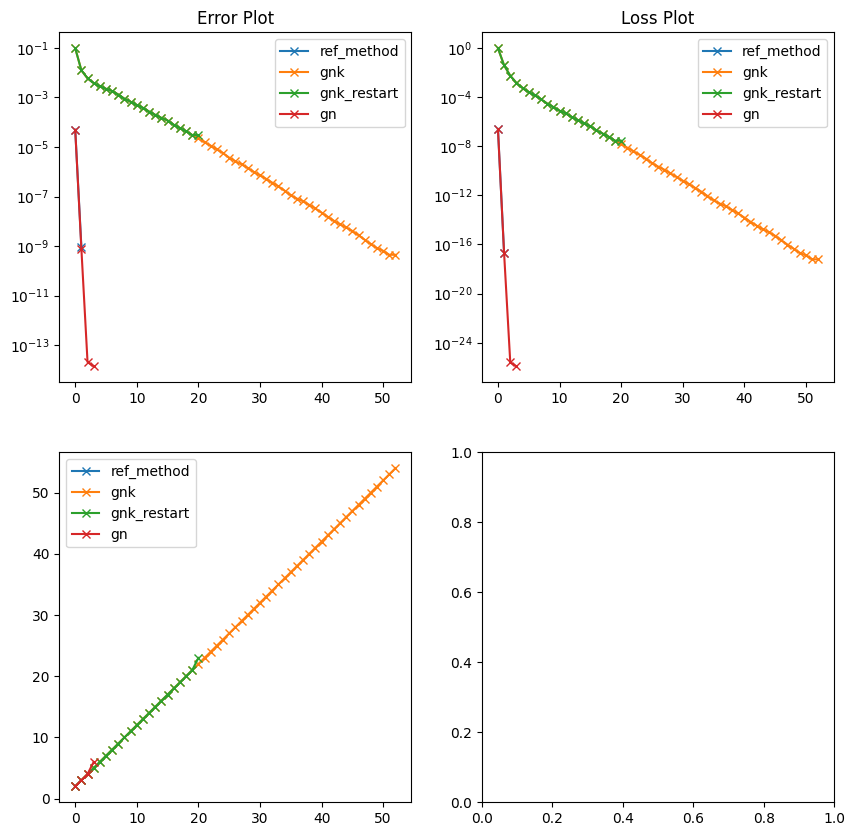
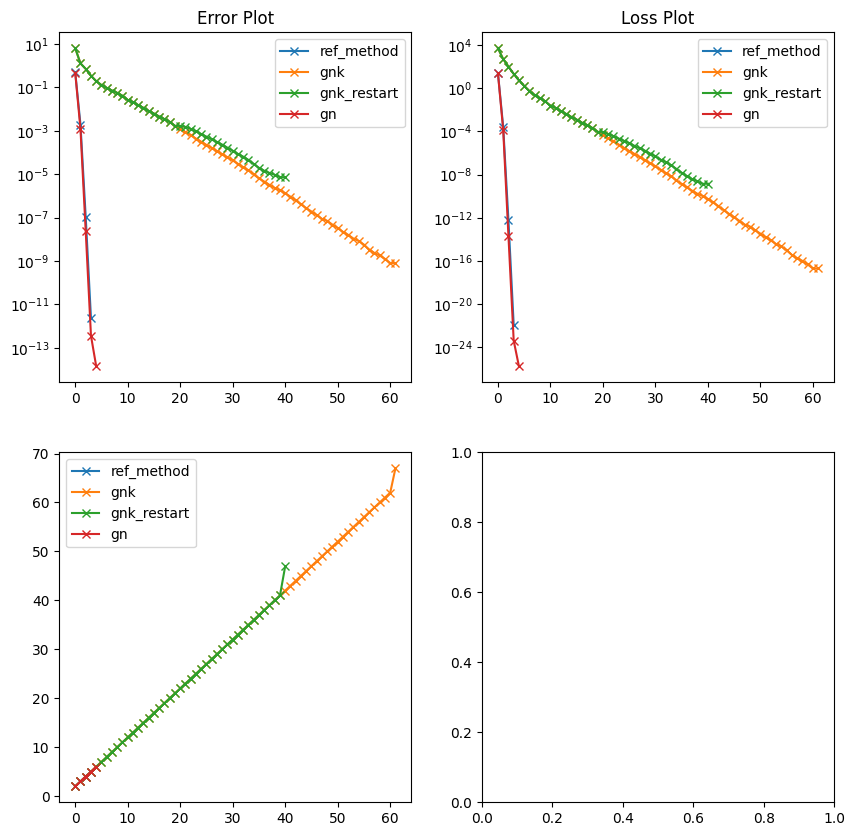
debug: small changes to find errors

diff --git a/gauss_newton_krylov.py b/gauss_newton_krylov.py
@@ -86,13 +86,13 @@ class Krylov:
         Because the dimensions may change x_coordinate is also updatet in size.
         """
 
-        np.testing.assert_allclose(self.base[:,:self.active_columns].T @ self.base[:,:self.active_columns], np.eye(self.active_columns), atol=1E-8, rtol=0, err_msg=f"first violation = {self.active_columns}")
+        #np.testing.assert_allclose(self.base[:,:self.active_columns].T @ self.base[:,:self.active_columns], np.eye(self.active_columns), atol=1E-10, rtol=0, err_msg=f"first violation = {self.active_columns}")
 
         self.jac_ev = self._jac(
             self.base[:, : self.active_columns] @ x_coordinate, *args
         )
 
-        print(self.base[:,:self.active_columns].T @ self.base[:,:self.active_columns])
+        #print(self.base[:,:self.active_columns].T @ self.base[:,:self.active_columns])
 
         normal_res = self.jac_ev.T @ res_ev
         if self.active_columns == self.krylov_max_dim and not self.restart:
@@ -180,12 +180,13 @@ def gauss_newton_krylov(
         jac_ev: npt.NDArray = krylov.jac()
 
         descent_direction, _, rank_jac, _ = scipy.linalg.lstsq(
-            -1 * jac_ev, res_ev
+            -1 * jac_ev, res_ev 
         )  # I'm operating under the assumption that the krylov base will typically be dense
 
         step_length, res_ev, nfev_delta = armijo_goldstein(
             krylov.res, x_coordinate, res_ev, jac_ev, args, descent_direction
         )
+        print(step_length)
         nfev += nfev_delta
 
         squared_sum_x_prev = np.sum(x_coordinate**2)

diff --git a/bratu_pde_test.py b/bratu_pde_test.py
@@ -48,7 +48,7 @@ def res(x):
 # x0 = np.zeros_like(x_true)
 # x0[1] = 1
 # x0= A_h2.T@y_true+a1*D_x1.T@y_true
-x0 = x_true + 10**-3 * np.ones_like(x_true)
+x0 = x_true + 10**-1 * np.ones_like(x_true)
 
 
 # x0 /= np.linalg.norm(x0)

diff --git a/rosenbrock_test.py b/rosenbrock_test.py
@@ -13,7 +13,7 @@ def res(x):
 
 
 x0 = np.zeros(p)
-x0[0] = 1  # Because zero is not allowed in gauss_newton_krylov
+x0[0] = 1.5  # Because zero is not allowed in gauss_newton_krylov
 
 
 def jac(x):
